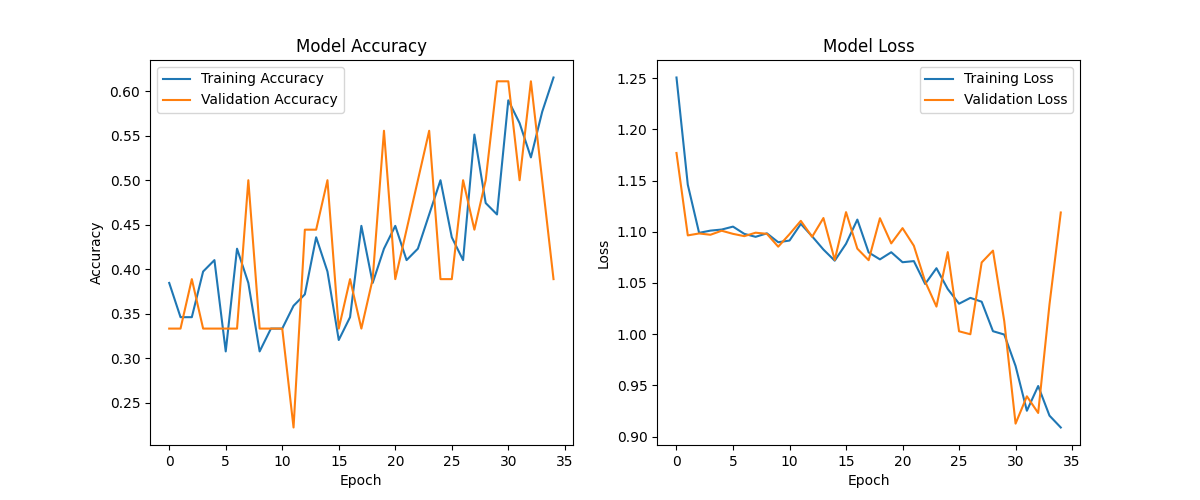
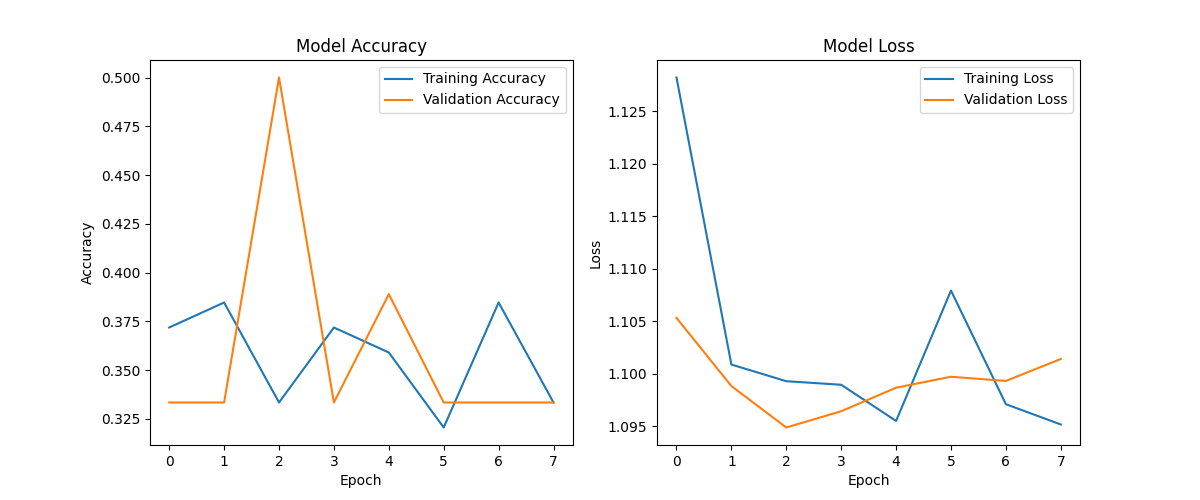
use updated train

diff --git a/train.py b/train.py
@@ -48,7 +48,7 @@ def create_tsynet_model(input_shape, num_classes):
 
         # First CNN Block
         Conv2D(
-            32,
+            64,
             (3, 3),
             activation='relu',
             padding='same'
@@ -81,7 +81,7 @@ def create_tsynet_model(input_shape, num_classes):
 
         # Dense Layer
         Dense(
-            128,
+            64,
             activation='relu'
         ),
 

diff --git a/nd.py b/nd.py
@@ -26,7 +26,7 @@ ALLOWED_EXTENSIONS = {'bmp', 'jpg', 'jpeg', 'png'}
 
 MODEL_PATH = "models/tsynet_ortho_predictor.h5"
 
-IMAGE_SIZE = (128, 128)
+IMAGE_SIZE = (64, 64)
 
 # Your actual folder names
 class_names = ["normal", "overbite", "underbite"]